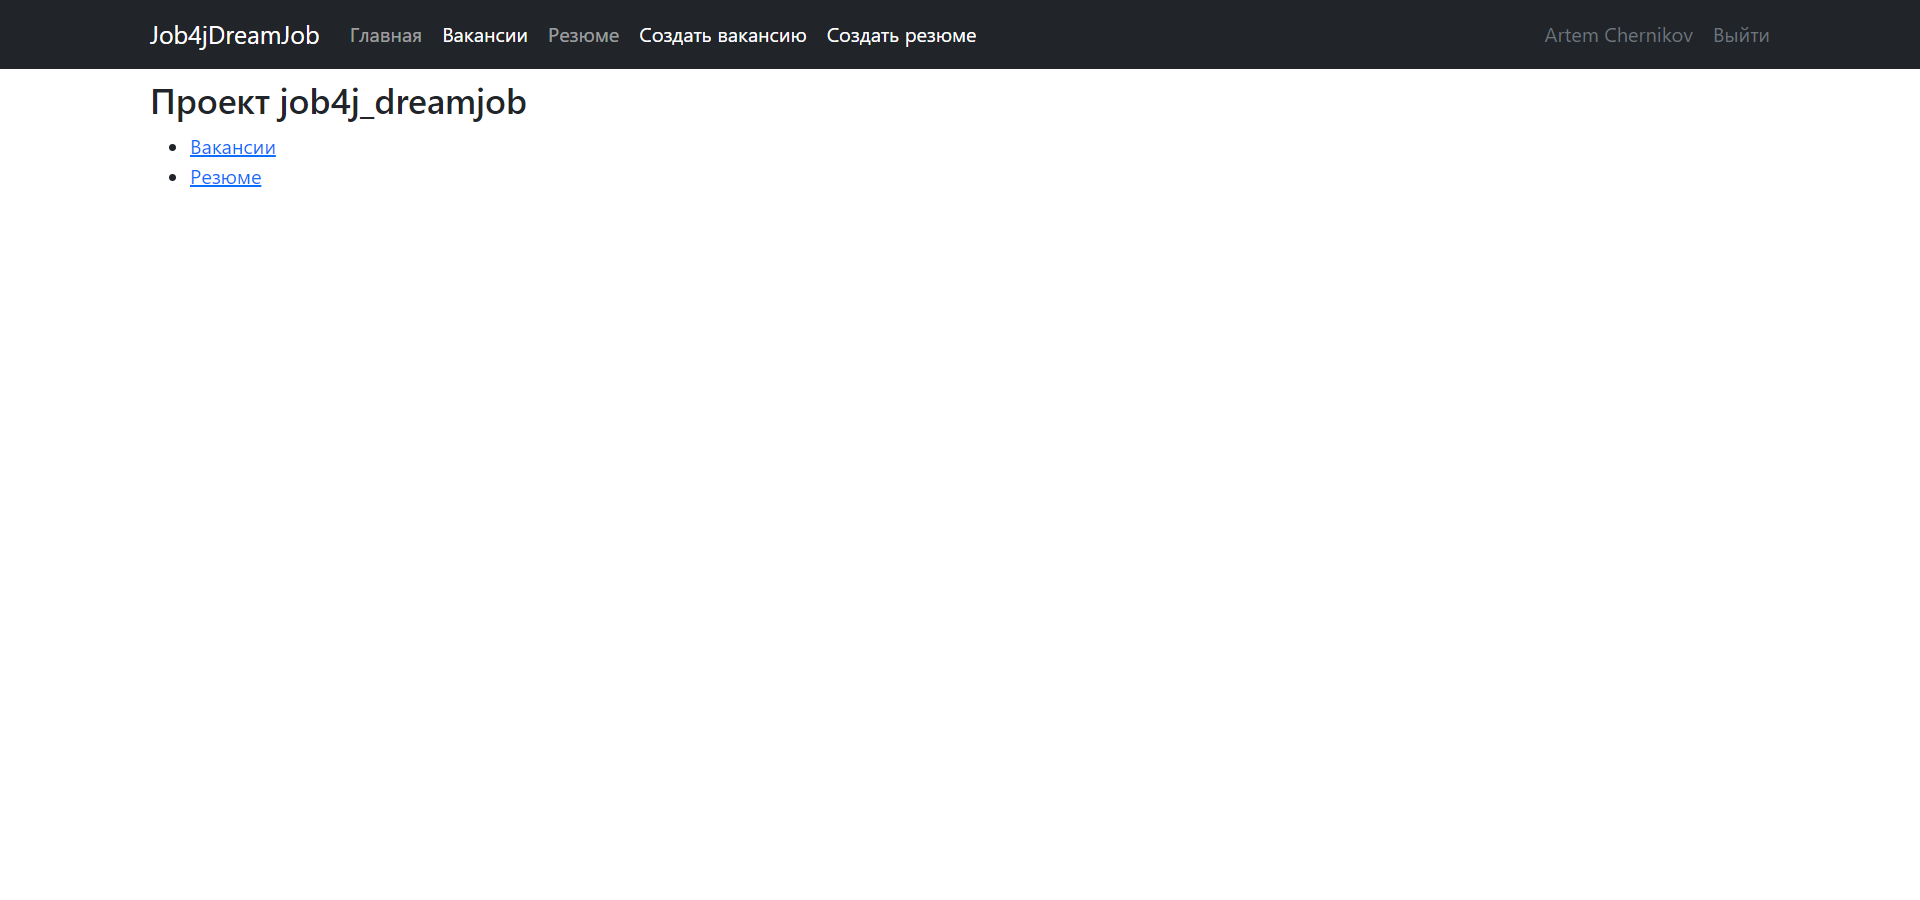
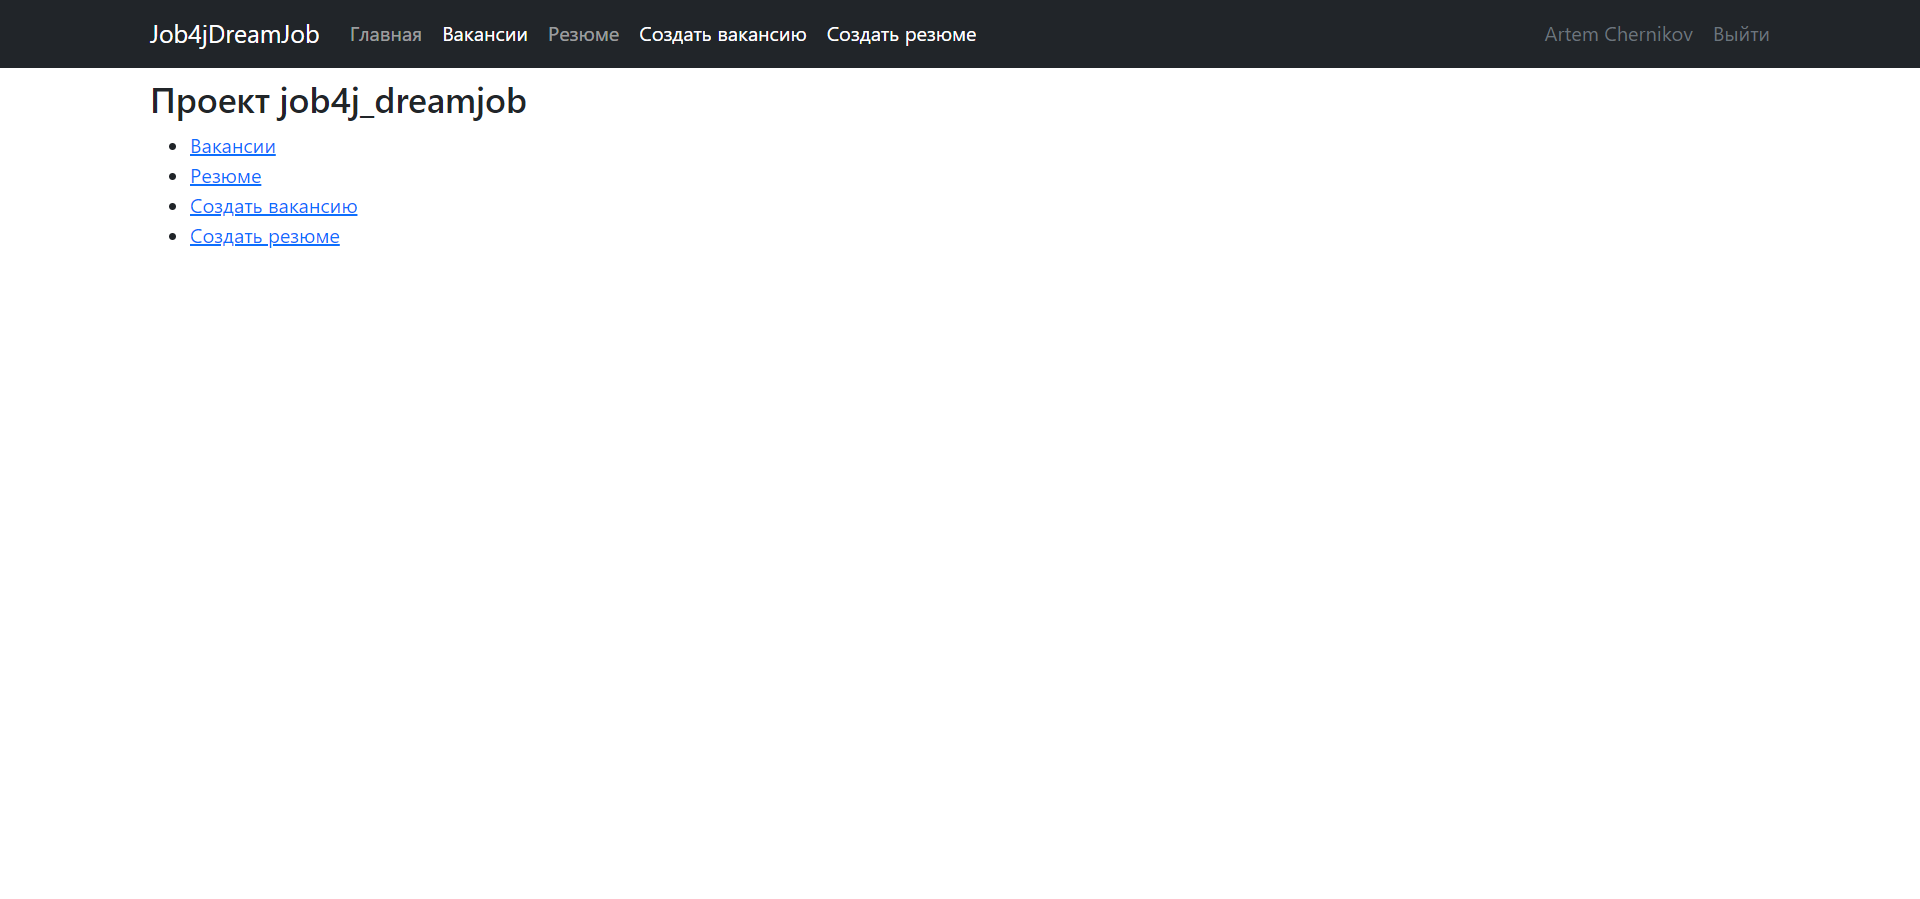
Changed home page of the web application

diff --git a/src/main/resources/templates/index.html b/src/main/resources/templates/index.html
@@ -40,6 +40,8 @@
         <ul>
             <li><a th:href="@{/vacancies}">Вакансии</a></li>
             <li><a th:href="@{/candidates}">Резюме</a></li>
+            <li><a th:href="@{/vacancies/create}">Создать вакансию</a></li>
+            <li><a th:href="@{/candidates/create}">Создать резюме</a></li>
         </ul>
     </div>
 </div>
